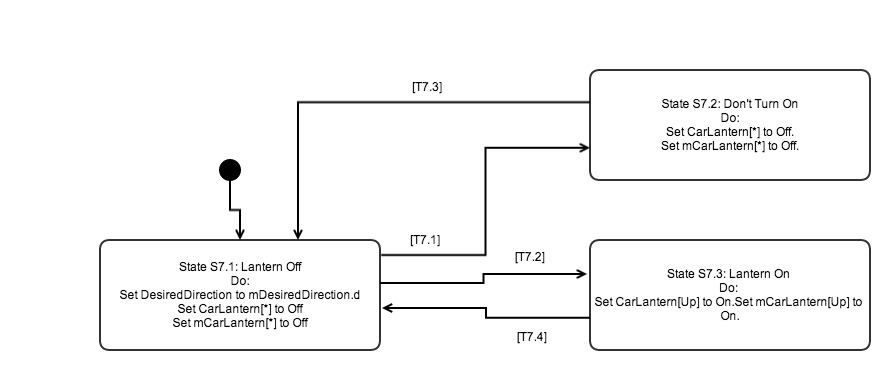
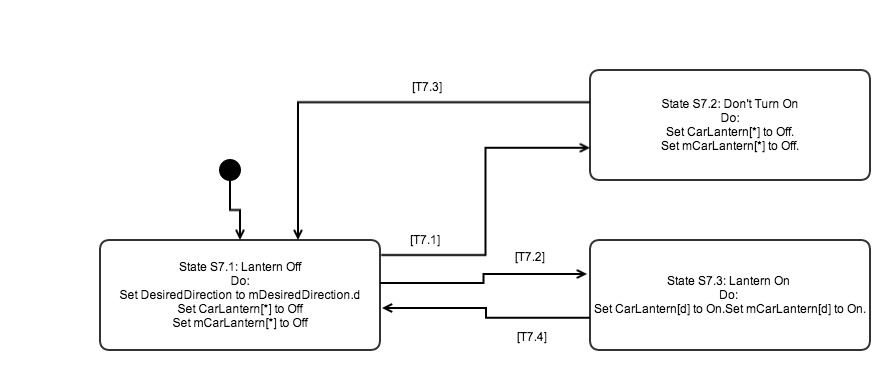
sd5b

Changed region(s): [[0.6674, 0.7135, 0.9708, 0.8622]]

diff --git a/portfolio/portfolio/reqs/requirements2.html b/portfolio/portfolio/reqs/requirements2.html
@@ -2091,7 +2091,7 @@
         7.4&nbsp;&nbsp;&nbsp; If mDoorClosed[b, r] is False AND DesiredDirection is Stop, then: <br>
         &nbsp;&nbsp;&nbsp; 7.4.1&nbsp; CarLantern[d] shall be commanded to Off. <br>
         &nbsp;&nbsp;&nbsp; 7.4.2&nbsp; mCarLantern[d] shall be commanded to Off. <br>
-        7.5&nbsp;&nbsp;&nbsp; If mDoorClosed[b, r] is False AND Desired Direction is not Stop, then: <br>
+        7.5&nbsp;&nbsp;&nbsp; If mDoorClosed[b, r] is False AND Desired Direction is not Stop AND mDesiredFloor.f is not equal to f, then: <br>
         &nbsp;&nbsp;&nbsp; 7.5.1&nbsp; CarLantern[d] shall be commanded to On. <br>
         &nbsp;&nbsp;&nbsp; 7.5.2&nbsp; mCarLantern[d] shall be commanded to On. <br>
         <h3>State Chart:</h3>
@@ -2124,7 +2124,8 @@
                     </td>
                     <td style="vertical-align: top;">
                         mDoorClosed[b,r]&nbsp;&larr;&nbsp;False&nbsp;
-                        AND DesiredDirection != Up <br>
+                        AND DesiredDirection != Stop&nbsp;
+                        AND mDesiredFloor.f != f<br>
                     </td>
                 </tr>
                 <tr>
